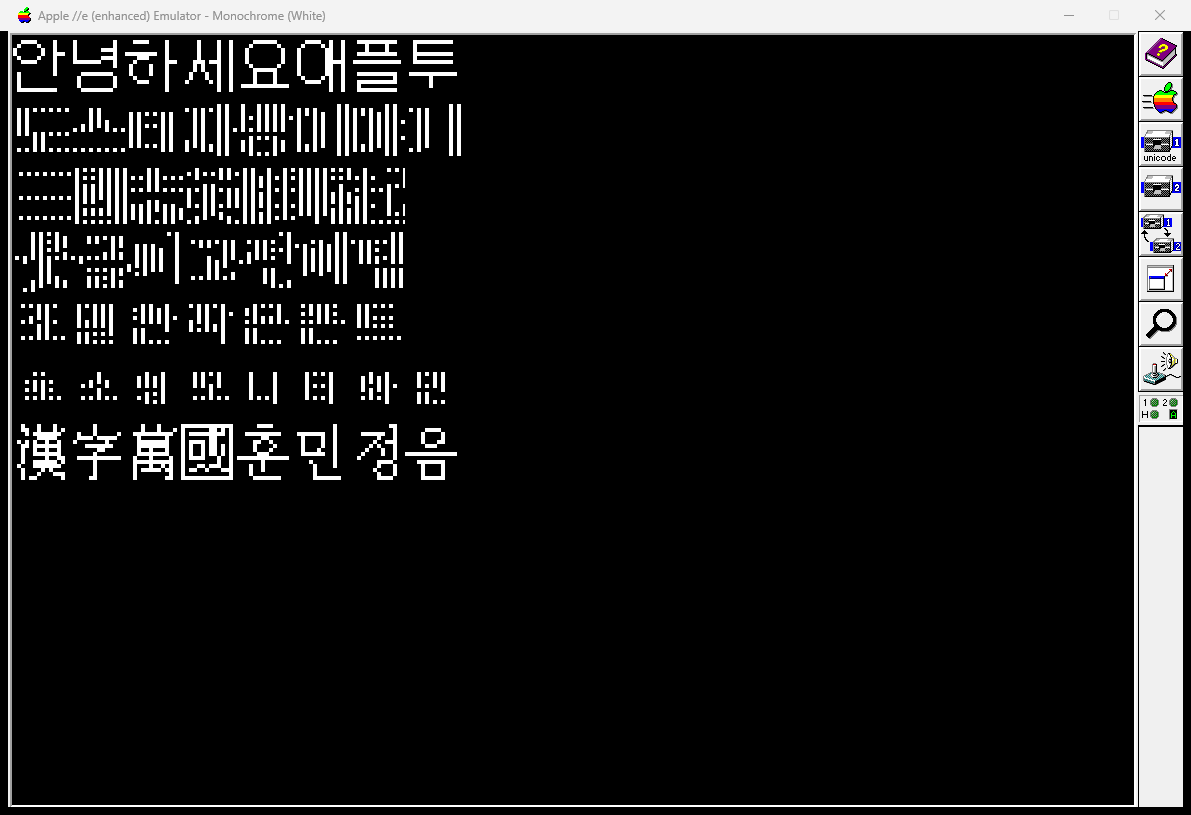
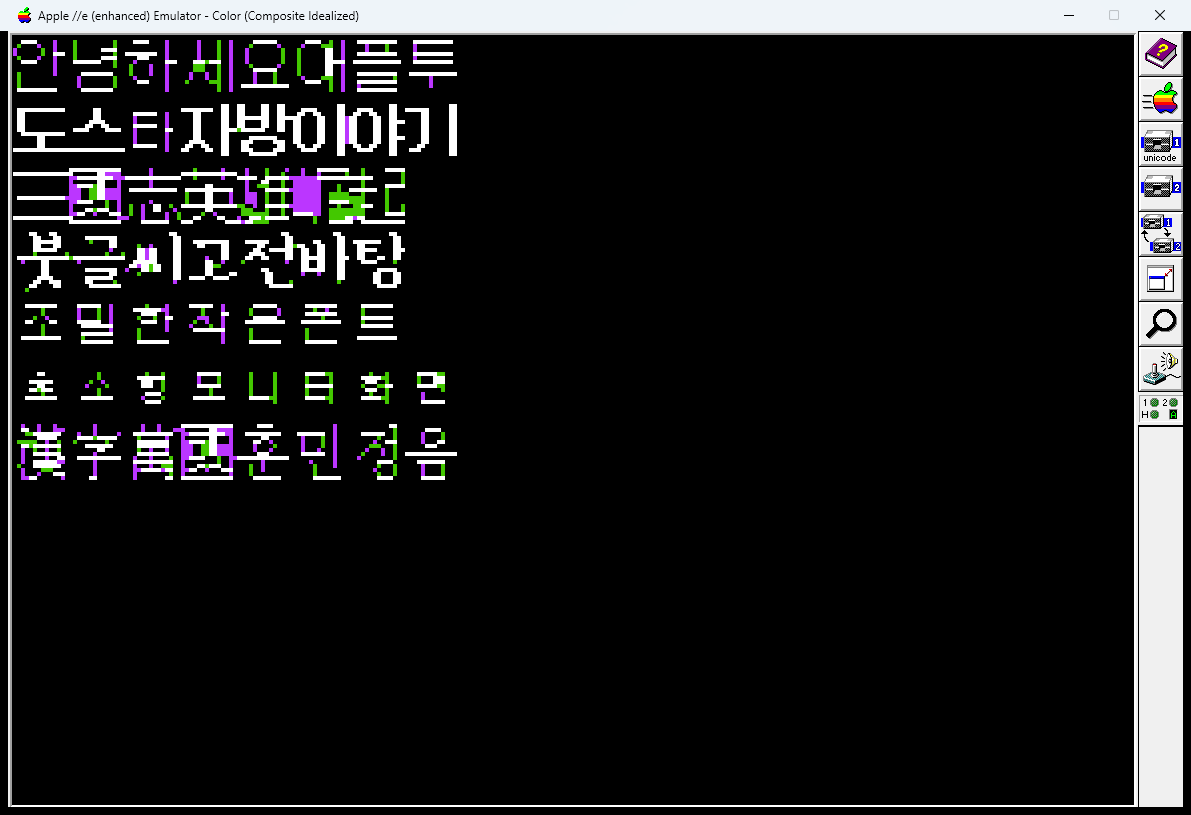
fix

diff --git a/tools/update_demo.py b/tools/update_demo.py
@@ -15,14 +15,14 @@ from inject_basic import build_applesoft_program
 from ac_tool import put_file
 
 DEMO_LINES_DATA = [
-    (10, 'REM MULTI-FONT & COLOR DEMO'),
+    (10, 'REM MULTI-FONT DEMO (CRISP 100% SHARP)'),
     (15, '& "/clear"'),
     (20, '[F:galmuri14][C:white]', '안녕하세요애플투'),
-    (30, '[F:neodgm][C:green]', '도스타자방이야기'),
-    (40, '[F:sam3k][C:orange]', '三國志英雄崛起'),
-    (50, '[F:dosmyungjo][C:blue]', '붓글씨고전바탕'),
-    (60, '[F:galmuri11][C:violet]', '조밀한작은폰트'),
-    (70, '[F:galmuri9][C:green]', '초소형모니터화면'),
+    (30, '[F:neodgm][C:white]', '도스타자방이야기'),
+    (40, '[F:sam3k][C:white]', '三國志英雄崛起'),
+    (50, '[F:dosmyungjo][C:white]', '붓글씨고전바탕'),
+    (60, '[F:galmuri11][C:white]', '조밀한작은폰트'),
+    (70, '[F:galmuri9][C:white]', '초소형모니터화면'),
     (80, '[F:noto][C:white]', '漢字萬國훈민정음'),
     (90, '& "1977 - 2026 RETRO COMPUTING"'),
     (100, 'END'),

diff --git a/verify_dsk_font.py b/verify_dsk_font.py
@@ -171,8 +171,10 @@ def verify_and_render(dsk_file="unicode.dsk", custom_ac=None):
                                     b1 = glyph[r * 2 + 1] & 0x7F
                                     val = b0 | (b1 << 7)
                                     if val:
-                                        exp = val | (val << 1) | (val >> 1)
-                                        c_val = (exp & color_mask) & 0x3FFF
+                                        matching = val & color_mask
+                                        wrong = val & ~color_mask
+                                        shifted = (wrong << 1) & color_mask
+                                        c_val = (matching | shifted) & 0x3FFF
                                         y = cur_row * 16 + r
                                         for c in range(14):
                                             if (c_val >> c) & 1:

diff --git a/apple2_hangul/server/hangul_server.py b/apple2_hangul/server/hangul_server.py
@@ -223,8 +223,10 @@ def apply_color_to_glyph(glyph_32: bytes, color_idx: int) -> bytes:
         b1 = glyph_32[r * 2 + 1] & 0x7F
         val = b0 | (b1 << 7)
         if val:
-            expanded = val | (val << 1) | (val >> 1)
-            colored_val = (expanded & color_phase_mask) & 0x3FFF
+            matching = val & color_phase_mask
+            wrong = val & ~color_phase_mask
+            shifted = (wrong << 1) & color_phase_mask
+            colored_val = (matching | shifted) & 0x3FFF
             out[r * 2]     = (colored_val & 0x7F) | hb
             out[r * 2 + 1] = ((colored_val >> 7) & 0x7F) | hb
         else:

diff --git a/unicode_server.py b/unicode_server.py
@@ -233,8 +233,10 @@ def apply_color_to_glyph(glyph_32: bytes, color_idx: int) -> bytes:
         b1 = glyph_32[r * 2 + 1] & 0x7F
         val = b0 | (b1 << 7)
         if val:
-            expanded = val | (val << 1) | (val >> 1)
-            colored_val = (expanded & color_phase_mask) & 0x3FFF
+            matching = val & color_phase_mask
+            wrong = val & ~color_phase_mask
+            shifted = (wrong << 1) & color_phase_mask
+            colored_val = (matching | shifted) & 0x3FFF
             out[r * 2]     = (colored_val & 0x7F) | hb
             out[r * 2 + 1] = ((colored_val >> 7) & 0x7F) | hb
         else:
